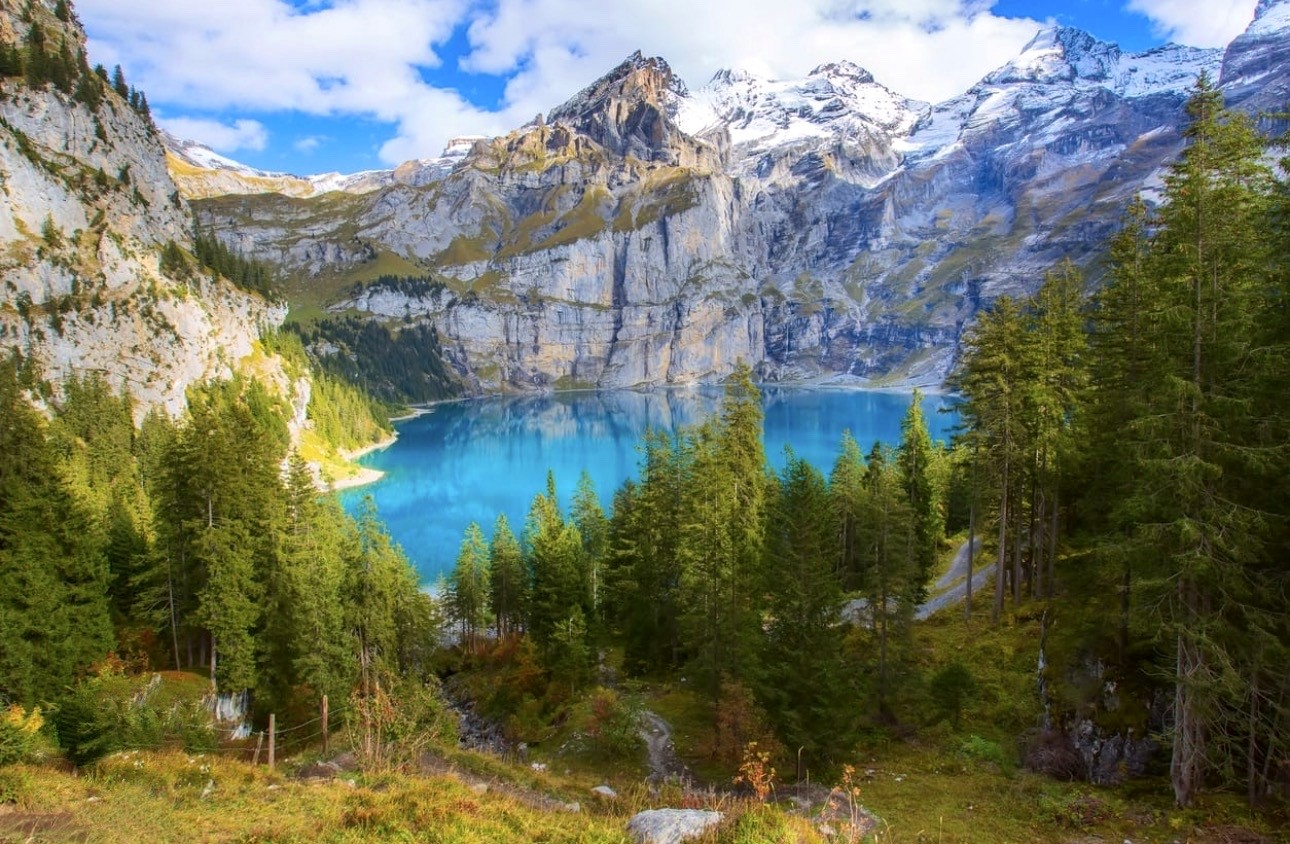
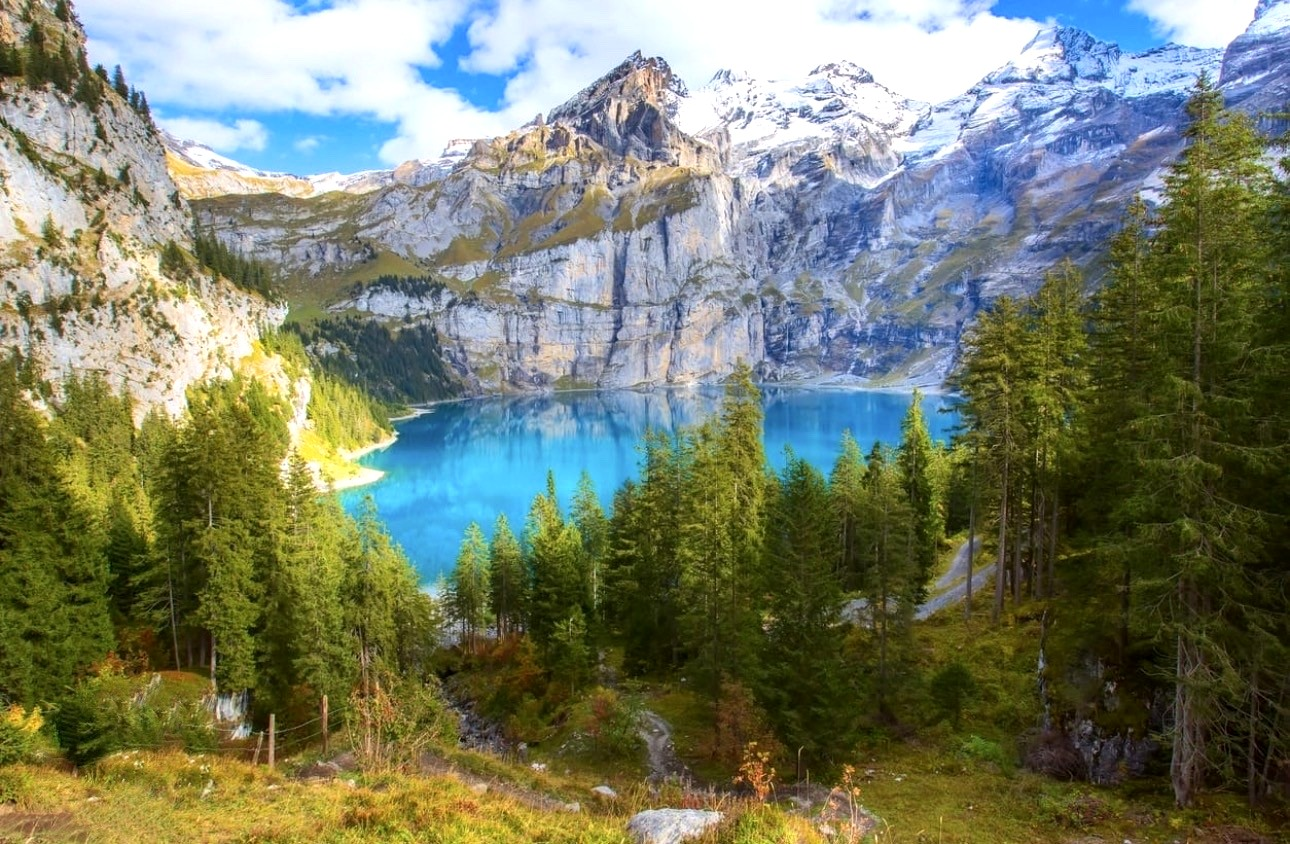
Add files via upload

diff --git a/index.html b/index.html
@@ -4,15 +4,15 @@
 <meta charset="utf-8">
 <meta name="viewport" content="width=device-width,initial-scale=1,viewport-fit=cover">
 <meta name="theme-color" content="#06131f">
-<title>Weather Overall</title>
-<link rel="manifest" href="manifest.webmanifest">
-<link rel="apple-touch-icon" href="icon-180.png">
+<title>Weather Overall – Final Candidate</title>
+<link rel="manifest" href="manifest.webmanifest?v=final">
+<link rel="apple-touch-icon" href="icon-180.png?v=final">
 <link rel="stylesheet" href="https://unpkg.com/leaflet@1.9.4/dist/leaflet.css"
  integrity="sha256-p4NxAoJBhIINfQ3ynQfQbM6fPF4T6M8S1QZyQx0uO+6M=" crossorigin="">
 <style>
 :root{
-  --glass:rgba(4,15,24,.68);
-  --glass2:rgba(255,255,255,.075);
+  --glass:rgba(4,15,24,.46);
+  --glass2:rgba(255,255,255,.105);
   --line:rgba(255,255,255,.22);
   --muted:rgba(255,255,255,.74);
   --text:#fff;
@@ -30,15 +30,19 @@ button{cursor:pointer}
 .hidden{display:none!important}
 
 #backdrop{
-  position:fixed;inset:0;z-index:-5;
-  background:url("alpen-hintergrund.jpg") center center/cover no-repeat;
+  position:fixed;inset:0;z-index:0;
+  background-image:url("alpen-hintergrund.jpg?v=final");
+  background-position:center center;
+  background-size:cover;
+  background-repeat:no-repeat;
   transform:scale(1.015);
 }
+.shell{position:relative;z-index:5}
 #backdrop:before{
   content:"";position:absolute;inset:0;
   background:
-    linear-gradient(90deg,rgba(0,6,13,.58),rgba(0,8,16,.16) 48%,rgba(0,5,12,.54)),
-    linear-gradient(180deg,rgba(0,7,15,.08),rgba(0,8,15,.36));
+    linear-gradient(90deg,rgba(0,6,13,.33),rgba(0,8,16,.035) 48%,rgba(0,5,12,.28)),
+    linear-gradient(180deg,rgba(0,7,15,.01),rgba(0,8,15,.16));
 }
 #weatherTint{position:absolute;inset:0;transition:background 1.2s ease}
 #weatherFx{position:absolute;inset:0;overflow:hidden}
@@ -48,7 +52,9 @@ button{cursor:pointer}
 #backdrop.storm #weatherTint{background:rgba(10,13,35,.62)}
 #backdrop.snow #weatherTint{background:rgba(185,220,240,.18)}
 #backdrop.fog #weatherTint{background:rgba(190,205,210,.34)}
-#backdrop.night:before{background:linear-gradient(90deg,rgba(0,2,10,.77),rgba(0,5,20,.51),rgba(0,2,10,.80))}
+#backdrop.night:before{background:
+ linear-gradient(90deg,rgba(0,2,10,.60),rgba(0,5,20,.25),rgba(0,2,10,.63)),
+ linear-gradient(180deg,rgba(6,18,45,.12),rgba(0,5,18,.30))}
 #backdrop.night #weatherTint{background:rgba(5,18,55,.48)}
 .drop{position:absolute;top:-30px;width:2px;height:26px;background:linear-gradient(transparent,rgba(185,225,255,.92));animation:rainfall linear infinite;transform:rotate(11deg)}
 .snow{position:absolute;border-radius:50%;background:#fff;box-shadow:0 0 9px rgba(255,255,255,.65);animation:snowfall linear infinite}
@@ -85,9 +91,9 @@ input:focus{border-color:rgba(110,190,255,.8);box-shadow:0 0 0 3px rgba(65,155,2
 
 .card{
   border:1px solid var(--line);
-  background:linear-gradient(145deg,rgba(3,14,23,.72),rgba(4,18,28,.54));
-  backdrop-filter:blur(18px) saturate(125%);
-  -webkit-backdrop-filter:blur(18px) saturate(125%);
+  background:linear-gradient(145deg,rgba(3,14,23,.52),rgba(4,18,28,.35));
+  backdrop-filter:blur(20px) saturate(135%);
+  -webkit-backdrop-filter:blur(20px) saturate(135%);
   border-radius:22px;box-shadow:var(--shadow),inset 0 1px rgba(255,255,255,.08);
 }
 .dashboard{display:grid;grid-template-columns:1.25fr 1fr 1fr 1fr;gap:12px}
@@ -179,6 +185,33 @@ input:focus{border-color:rgba(110,190,255,.8);box-shadow:0 0 0 3px rgba(65,155,2
   .sourcegrid,.detailgrid{grid-template-columns:1fr 1fr}
   #radarMap,#locationMap{height:285px}
 }
+
+/* Weather Overall – Final Candidate */
+.hero{
+  position:relative;overflow:hidden;
+  background:linear-gradient(110deg,rgba(3,14,23,.57),rgba(6,25,38,.24) 55%,rgba(3,14,23,.45));
+}
+.hours,.forecast,.model,.astro,.favorites,.radar,.mapcard,.sources{
+  background:linear-gradient(145deg,rgba(3,14,23,.48),rgba(4,18,28,.31));
+}
+.hero:before{
+  content:"";position:absolute;inset:0;border-radius:inherit;pointer-events:none;
+  background:radial-gradient(circle at 77% 24%,rgba(255,218,132,.12),transparent 28%);
+}
+.current-main,.location-line,.datetime,.metrics{position:relative;z-index:1}
+.brand h1,.location-line h2,.temperature,.condition{text-shadow:0 3px 18px rgba(0,0,0,.72)}
+.hour,.modelbox,.infobox,.fav{box-shadow:inset 0 1px rgba(255,255,255,.07)}
+#backdrop.day.clear #weatherTint{background:radial-gradient(circle at 72% 13%,rgba(255,215,125,.12),transparent 26%)}
+#backdrop.day.cloudy #weatherTint{background:linear-gradient(180deg,rgba(80,105,125,.15),rgba(15,35,55,.20))}
+#backdrop.day.rain #weatherTint{background:linear-gradient(180deg,rgba(15,45,70,.25),rgba(5,20,35,.37))}
+#backdrop.day.fog #weatherTint{background:linear-gradient(180deg,rgba(220,230,232,.20),rgba(130,150,160,.22));backdrop-filter:blur(1.5px)}
+#backdrop.day.snow #weatherTint{background:linear-gradient(180deg,rgba(220,240,250,.13),rgba(150,190,215,.15))}
+#backdrop.day.storm #weatherTint{background:linear-gradient(180deg,rgba(15,18,40,.38),rgba(5,10,25,.50))}
+@media(max-width:760px){
+  #backdrop{background-position:54% center}
+  .hero{background:linear-gradient(160deg,rgba(3,14,23,.59),rgba(4,18,28,.32))}
+}
+
 </style>
 </head>
 <body>
@@ -188,7 +221,7 @@ input:focus{border-color:rgba(110,190,255,.8);box-shadow:0 0 0 3px rgba(65,155,2
   <header class="topbar">
     <div>
       <div class="eyebrow">Konsens aus seriösen Wettermodellen</div>
-      <div class="brand"><h1>Weather Overall</h1><span class="badge">V8</span></div>
+      <div class="brand"><h1>Weather Overall</h1><span class="badge">FINAL</span></div>
     </div>
     <div class="searchbar">
       <div class="querywrap">
@@ -392,7 +425,7 @@ async function forecast(loc){
 async function loadLocation(loc){
   $("status").textContent="Wetterdaten werden geladen …";$("status").classList.remove("hidden");
   try{
-    state.loc=loc;localStorage.setItem("weatherOverallLast",JSON.stringify(favoriteFromLoc(loc)));state.data=await forecast(loc);render();$("dashboard").classList.remove("hidden");$("status").classList.add("hidden");
+    state.loc=loc;state.data=await forecast(loc);localStorage.setItem("weatherOverallLast",JSON.stringify(favoriteFromLoc(loc)));render();$("dashboard").classList.remove("hidden");$("status").classList.add("hidden");
     loadAirQuality(loc);loadModels(loc);loadRadar(loc);loadLocationMap(loc);
   }catch(e){$("status").textContent="Fehler: "+e.message}
 }
